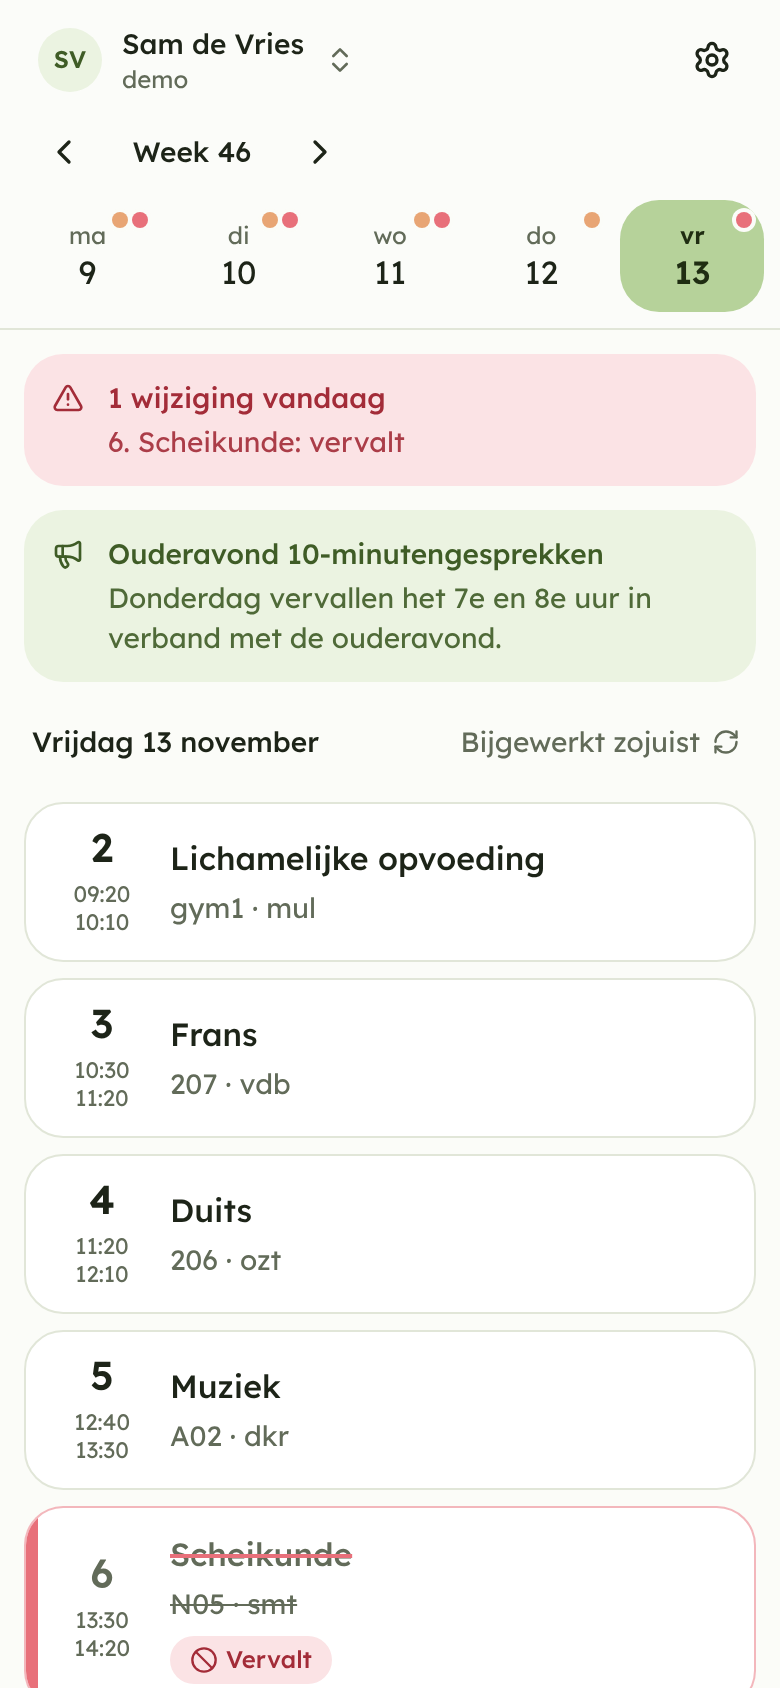
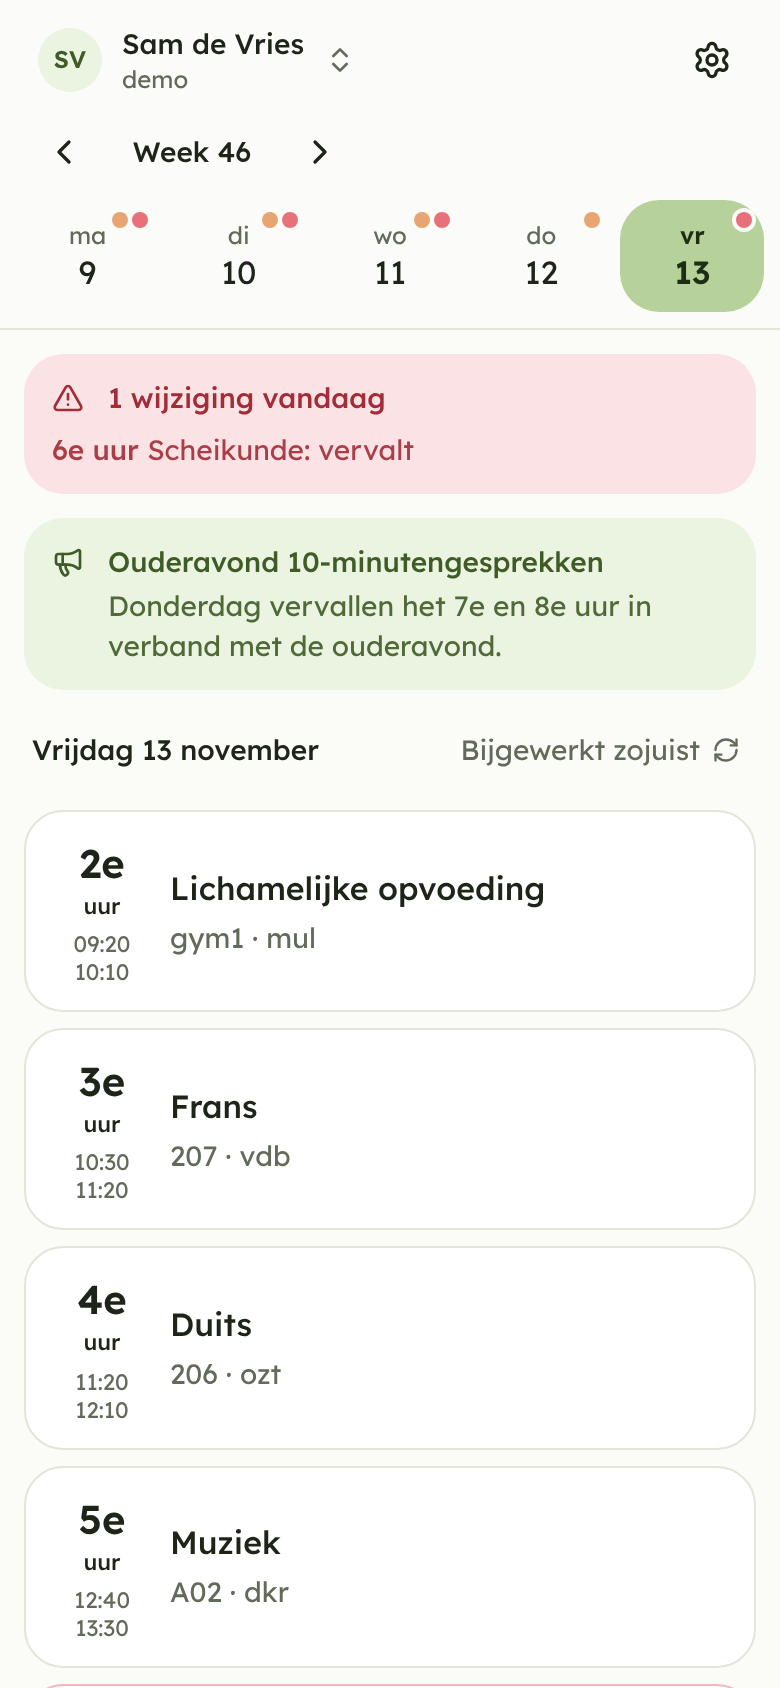
Add default school setting, spell out lesson periods, align change list
- MELON_DEFAULT_SCHOOL prefills the school field when linking (still editable)
- Periods read '2e uur' on cards, in the changes banner and in the calendar feed
- The list of changes in the banner starts at the banner's left edge

Claude-Session: https://claude.ai/code/session_01TxVacZZQ2rXgvoEcibrDhC

diff --git a/web/src/components/Lesson.tsx b/web/src/components/Lesson.tsx
@@ -77,8 +77,13 @@ export function LessonCard({ lesson, isNow, onOpen }: { lesson: Lesson; isNow: b
       {/* The coloured edge makes changes visible while scrolling. */}
       <span aria-hidden="true" className={cn('absolute inset-y-0 left-0 w-1.5', cancelled ? 'bg-watermelon' : changed ? 'bg-cantaloupe' : isNow ? 'bg-honeydew' : 'bg-transparent')} />
       <span className="flex w-11 shrink-0 flex-col items-center justify-center text-center">
-        <span className={cn('text-xl leading-none font-semibold tabular-nums', cancelled && 'text-muted-foreground')}>{lesson.period ? lesson.period.from : '·'}</span>
-        <span className="mt-1.5 text-[0.7rem] leading-tight text-muted-foreground tabular-nums">
+        {lesson.period && (
+          <span className={cn('leading-none', cancelled && 'text-muted-foreground')} aria-label={t('period', { n: lesson.period.from })}>
+            <span className="text-xl font-semibold tabular-nums">{t('periodNumber', { n: lesson.period.from })}</span>
+            <span className="block pt-0.5 text-[0.7rem] font-medium">{t('periodWord')}</span>
+          </span>
+        )}
+        <span className={cn('text-[0.7rem] leading-tight text-muted-foreground tabular-nums', lesson.period && 'mt-1.5')}>
           {formatTime(lesson.start, locale)}
           <br />
           {formatTime(lesson.end, locale)}
@@ -97,7 +102,6 @@ export function LessonCard({ lesson, isNow, onOpen }: { lesson: Lesson; isNow: b
         {lesson.changeNote && !cancelled && <span className="text-sm text-cantaloupe-ink">{lesson.changeNote}</span>}
         {lesson.note && lesson.note !== lesson.title && <span className="truncate text-sm text-muted-foreground">{lesson.note}</span>}
       </span>
-      <span className="sr-only">{lesson.period ? t('period', { n: lesson.period.from }) : ''}</span>
     </button>
   )
 }

diff --git a/web/src/pages/Schedule.tsx b/web/src/pages/Schedule.tsx
@@ -214,16 +214,21 @@ export function Schedule() {
         {/* Changes can't be missed: they are counted here, dotted in the day picker and edged on each card. */}
         {!loading && dayChanges.length > 0 && (
           <div className="md:hidden">
-            <Banner tone={dayChanges.some((l) => l.status === 'cancelled') ? 'watermelon' : 'cantaloupe'} icon={<TriangleAlert />} title={plural(day === todayStr ? 'changesToday' : 'changesDay', dayChanges.length)}>
-              <ul className="grid gap-0.5">
-                {dayChanges.map((l) => (
-                  <li key={l.id} className="truncate">
-                    {l.period ? `${l.period.from}. ` : ''}
-                    {l.title}: {l.status === 'cancelled' ? t('cancelled').toLowerCase() : l.changes.map((c) => t(`change_${c}`).toLowerCase()).join(', ')}
-                  </li>
-                ))}
-              </ul>
-            </Banner>
+            <Banner
+              tone={dayChanges.some((l) => l.status === 'cancelled') ? 'watermelon' : 'cantaloupe'}
+              icon={<TriangleAlert />}
+              title={plural(day === todayStr ? 'changesToday' : 'changesDay', dayChanges.length)}
+              below={
+                <ul className="grid gap-0.5">
+                  {dayChanges.map((l) => (
+                    <li key={l.id} className="truncate">
+                      {l.period && <span className="font-medium">{t('period', { n: l.period.from })} </span>}
+                      {l.title}: {l.status === 'cancelled' ? t('cancelled').toLowerCase() : l.changes.map((c) => t(`change_${c}`).toLowerCase()).join(', ')}
+                    </li>
+                  ))}
+                </ul>
+              }
+            />
           </div>
         )}
 

diff --git a/web/src/components/bits.tsx b/web/src/components/bits.tsx
@@ -23,15 +23,19 @@ export function Chip({ tone, children, className }: { tone: Tone; children: Reac
 }
 
 /** A tinted banner for things the user should not miss. */
-export function Banner({ tone, icon, title, children, action }: { tone: Tone; icon?: ReactNode; title: ReactNode; children?: ReactNode; action?: ReactNode }) {
+export function Banner({ tone, icon, title, children, action, below }: { tone: Tone; icon?: ReactNode; title: ReactNode; children?: ReactNode; action?: ReactNode; below?: ReactNode }) {
   return (
-    <div role="status" className={cn('flex items-start gap-3 rounded-xl px-3.5 py-3 text-sm [&>svg]:mt-0.5 [&>svg]:size-4 [&>svg]:shrink-0', tones[tone])}>
-      {icon}
-      <div className="min-w-0 flex-1">
-        <p className="font-medium">{title}</p>
-        {children && <div className="mt-0.5 opacity-90">{children}</div>}
+    <div role="status" className={cn('rounded-xl px-3.5 py-3 text-sm', tones[tone])}>
+      <div className="flex items-start gap-3 [&>svg]:mt-0.5 [&>svg]:size-4 [&>svg]:shrink-0">
+        {icon}
+        <div className="min-w-0 flex-1">
+          <p className="font-medium">{title}</p>
+          {children && <div className="mt-0.5 opacity-90">{children}</div>}
+        </div>
+        {action}
       </div>
-      {action}
+      {/* Full width, flush with the banner's left edge. */}
+      {below && <div className="mt-1.5 opacity-90">{below}</div>}
     </div>
   )
 }

diff --git a/web/src/components/LinkForm.tsx b/web/src/components/LinkForm.tsx
@@ -12,12 +12,12 @@ import { useI18n } from '@/lib/i18n'
 import { useSession } from '@/lib/session'
 
 /** Link a Zermelo account: school + link code, or school + API token. */
-export function LinkForm({ onLinked, initialSchool = '' }: { onLinked?: (a: Account) => void; initialSchool?: string }) {
+export function LinkForm({ onLinked, initialSchool }: { onLinked?: (a: Account) => void; initialSchool?: string }) {
   const { t, error } = useI18n()
-  const { setActive, reload } = useSession()
+  const { session, setActive, reload } = useSession()
   const qc = useQueryClient()
   const [mode, setMode] = useState<'code' | 'token'>('code')
-  const [school, setSchool] = useState(initialSchool)
+  const [school, setSchool] = useState(initialSchool ?? session.defaultSchool ?? '')
   const [secret, setSecret] = useState('')
   const [busy, setBusy] = useState(false)
   const [problem, setProblem] = useState<{ field: 'school' | 'secret' | 'form'; text: string } | null>(null)

diff --git a/web/src/lib/api.ts b/web/src/lib/api.ts
@@ -46,7 +46,7 @@ export type SubjectEntry = { code: string; name: string; defaultName: string; cu
 export type ApiKey = { id: string; name: string; hint: string; accountIds: string[]; createdAt: string; lastUsedAt: string | null; key?: string }
 export type Grant = { id: string; app: string; accountIds: string[]; createdAt: string; lastUsedAt: string | null }
 export type Calendar = { enabled: boolean; url?: string }
-export type Session = { demo: boolean; version: string; accounts: Account[] }
+export type Session = { demo: boolean; version: string; defaultSchool: string; accounts: Account[] }
 export type Meta = { fetchedAt?: string; stale?: boolean }
 
 export class ApiError extends Error {

diff --git a/web/src/lib/i18n.tsx b/web/src/lib/i18n.tsx
@@ -28,6 +28,8 @@ const nl = {
   noLessonsHint: 'Niks op het rooster deze dag.',
   now: 'Nu',
   period: '{n}e uur',
+  periodNumber: '{n}e',
+  periodWord: 'uur',
   updated: 'Bijgewerkt {ago}',
   justNow: 'zojuist',
   secondsAgo: '{n} sec geleden',
@@ -188,6 +190,8 @@ const en: typeof nl = {
   noLessonsHint: 'Nothing scheduled this day.',
   now: 'Now',
   period: 'Period {n}',
+  periodNumber: '{n}',
+  periodWord: 'period',
   updated: 'Updated {ago}',
   justNow: 'just now',
   secondsAgo: '{n} sec ago',

diff --git a/web/src/components/AccountMenu.tsx b/web/src/components/AccountMenu.tsx
@@ -51,7 +51,7 @@ export function AccountMenu() {
           </DropdownMenuItem>
         </DropdownMenuContent>
       </DropdownMenu>
-      <LinkDialog open={linking} onOpenChange={setLinking} initialSchool={active.school === 'demo' ? '' : active.school} />
+      <LinkDialog open={linking} onOpenChange={setLinking} initialSchool={active.school === 'demo' ? undefined : active.school} />
     </>
   )
 }

diff --git a/cmd/melon/main.go b/cmd/melon/main.go
@@ -4,6 +4,7 @@ package main
 import (
 	"context"
 	"errors"
+	"fmt"
 	"log/slog"
 	"net/http"
 	"os"
@@ -75,6 +76,15 @@ func run() error {
 	}
 	defer db.Close()
 
+	defaultSchool := ""
+	if v := env("MELON_DEFAULT_SCHOOL", ""); v != "" {
+		school, ok := zermelo.NormalizeSchool(v)
+		if !ok {
+			return fmt.Errorf("MELON_DEFAULT_SCHOOL %q is not a portal name like \"jfc\"", v)
+		}
+		defaultSchool = school
+	}
+
 	up := zermelo.Router{Real: zermelo.NewHTTP()}
 	if demo {
 		up.Demo = zermelo.Demo{Loc: loc}
@@ -84,7 +94,7 @@ func run() error {
 		Core: svc, Store: db,
 		PublicURL:  strings.TrimRight(env("MELON_PUBLIC_URL", ""), "/"),
 		TrustProxy: truthy("MELON_TRUST_PROXY"),
-		Demo:       demo, Version: version,
+		Demo:       demo, Version: version, DefaultSchool: defaultSchool,
 		Static: web.Dist(), OpenAPI: api.OpenAPI,
 	}
 	httpServer := &http.Server{

diff --git a/internal/server/app.go b/internal/server/app.go
@@ -15,7 +15,7 @@ import (
 // handleSession tells the web app what it is working with. It never fails
 // for anonymous visitors; they simply have no accounts yet.
 func (s *Server) handleSession(w http.ResponseWriter, r *http.Request) {
-	out := map[string]any{"demo": s.Demo, "version": s.Version, "accounts": []core.Account{}}
+	out := map[string]any{"demo": s.Demo, "version": s.Version, "defaultSchool": s.DefaultSchool, "accounts": []core.Account{}}
 	if user, ok := s.sessionUser(r); ok {
 		accounts, err := s.Core.Accounts(r.Context(), core.Principal{UserID: user, All: true})
 		if err != nil {

diff --git a/internal/server/server.go b/internal/server/server.go
@@ -40,9 +40,11 @@ type Server struct {
 	PublicURL  string
 	TrustProxy bool
 	Demo       bool
-	Version    string
-	Static     fs.FS  // built web app
-	OpenAPI    []byte // openapi.yaml
+	// DefaultSchool prefills the school field when linking; users can change it.
+	DefaultSchool string
+	Version       string
+	Static        fs.FS  // built web app
+	OpenAPI       []byte // openapi.yaml
 
 	limitMu  sync.Mutex
 	limiters map[string]*clientLimiter

diff --git a/internal/core/calendar.go b/internal/core/calendar.go
@@ -100,7 +100,7 @@ func (s *Service) CalendarFeed(ctx context.Context, token, lang string) (string,
 			desc = append(desc, word("Groep: ", "Group: ")+strings.Join(l.Groups, ", "))
 		}
 		if l.Period != nil {
-			desc = append(desc, fmt.Sprintf(word("Lesuur: %d", "Period: %d"), l.Period.From))
+			desc = append(desc, fmt.Sprintf(word("%de uur", "Period %d"), l.Period.From))
 		}
 		modified := sched.FetchedAt
 		if l.UpdatedAt != nil {

diff --git a/README.md b/README.md
@@ -43,6 +43,7 @@ losing it means everyone has to link again.
 | `MELON_ADDR` | `:8080` | Listen address. |
 | `MELON_DATA_DIR` | `./data` (`/data` in Docker) | SQLite database location. |
 | `MELON_TRUST_PROXY` | off | Trust `X-Forwarded-*` headers (set behind a reverse proxy). |
+| `MELON_DEFAULT_SCHOOL` | none | Portal name (e.g. `jfc`) prefilled in the school field. Users can still change it. |
 | `MELON_DEMO` | off | Enables the generated demo school and the "Bekijk de demo" button. |
 | `MELON_TIMEZONE` | `Europe/Amsterdam` | School timezone. |
 
